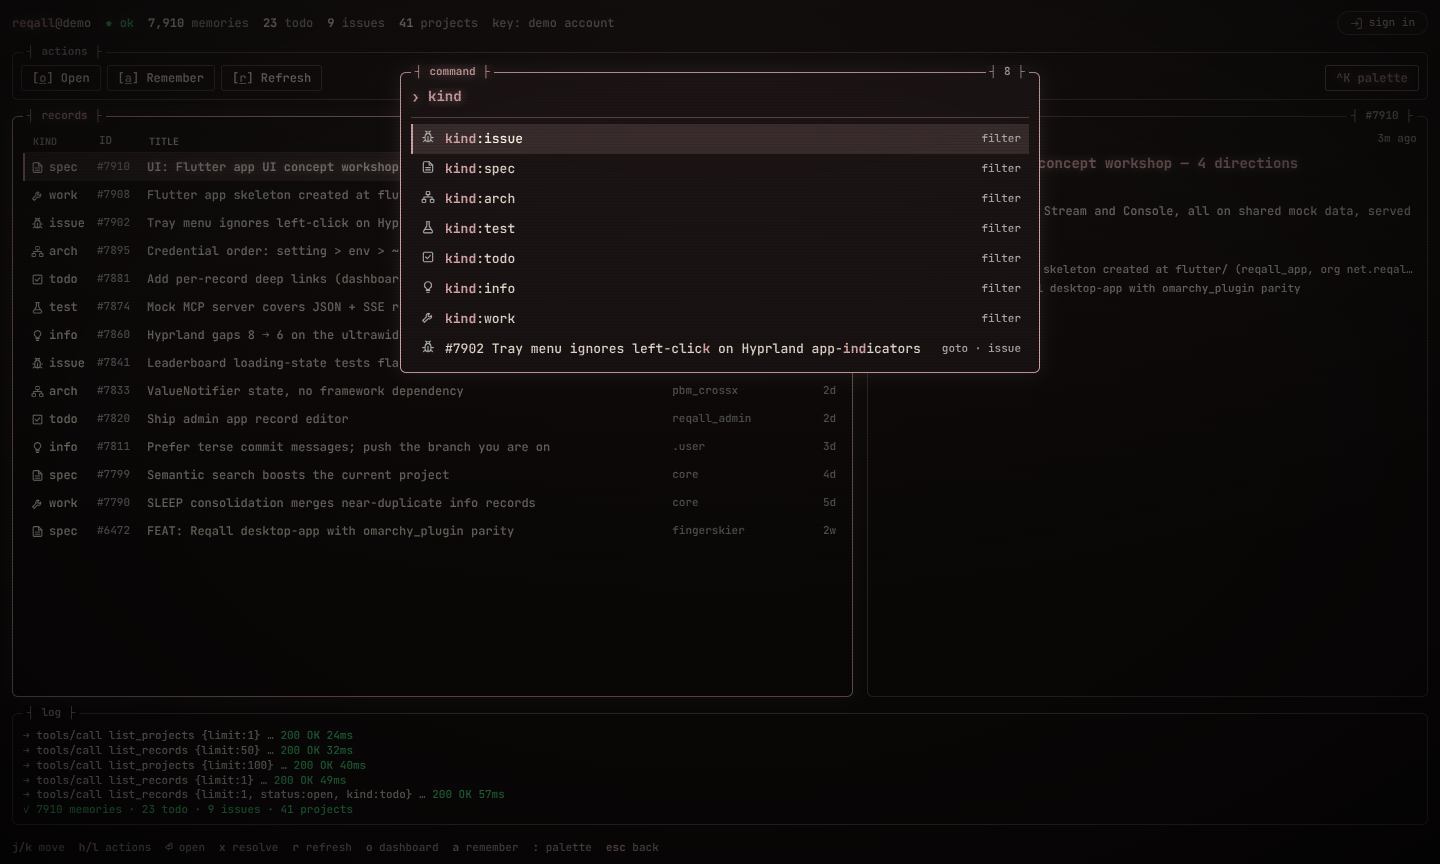
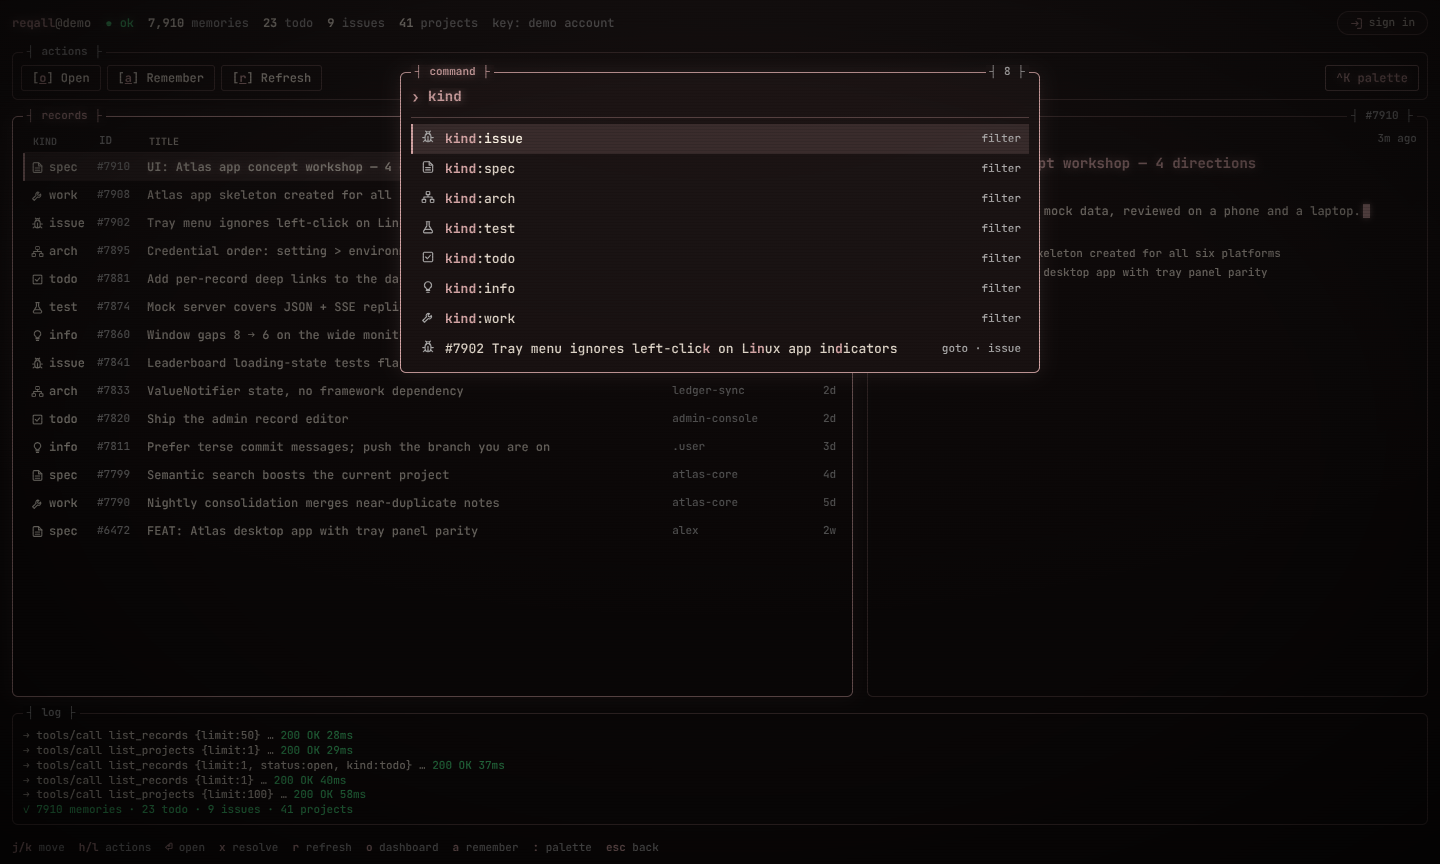
Use fictional names in all mock, demo and test data
The demo accounts, design mocks and test fixtures were seeded from real
Reqall records, so they named real orgs, client projects, a user handle
and an email. Replace them with an invented set (lumen-labs/atlas-*,
quarry-co/harvest-app, tidewater/ledger-sync, alex@example.com) shared
by designs/, flutter/ and electron/, and regenerate the screenshots.

diff --git a/designs/lib/shared/mock.dart b/designs/lib/shared/mock.dart
@@ -62,7 +62,7 @@ class Account {
 const account = Account(
   auth: AuthState.ok,
   host: 'reqall.net',
-  email: 'fingerskier@gmail.com',
+  email: 'alex@example.com',
   memories: 7910,
   openTodos: 23,
   openIssues: 9,
@@ -71,91 +71,91 @@ const account = Account(
 );
 
 const projects = <Project>[
-  Project(8557, 'ReqallSystem/app', 3),
-  Project(4946, '.machine/omarchy/fingerskier', 212),
-  Project(84, 'fingerskier/reqall_admin', 48),
-  Project(17, 'osteostrong/believer_app', 391),
-  Project(144, 'turingautomations/pbm_crossx', 77),
-  Project(12, 'ReqallSystem/core', 640),
-  Project(31, 'ReqallSystem/desktop-app', 58),
+  Project(8557, 'lumen-labs/atlas-app', 3),
+  Project(4946, '.machine/devbox/alex', 212),
+  Project(84, 'alex/admin-console', 48),
+  Project(17, 'quarry-co/harvest-app', 391),
+  Project(144, 'tidewater/ledger-sync', 77),
+  Project(12, 'lumen-labs/atlas-core', 640),
+  Project(31, 'lumen-labs/atlas-desktop', 58),
   Project(2, '.user', 96),
 ];
 
 const memories = <Memory>[
   Memory(
     id: 7910,
-    title: 'UI: Flutter app UI concept workshop — 4 directions',
-    body: 'Hearth, Constellation, Stream and Console, all on shared mock data, served over tailscale.',
+    title: 'UI: Atlas app concept workshop — 4 directions',
+    body: 'Four layouts on shared mock data, reviewed on a phone and a laptop.',
     kind: Kind.spec,
     status: 'open',
-    project: 'ReqallSystem/app',
+    project: 'lumen-labs/atlas-app',
     age: Duration(minutes: 3),
     links: [7908, 6472],
   ),
   Memory(
     id: 7908,
-    title: 'Flutter app skeleton created at flutter/ (reqall_app, org net.reqall)',
-    body: 'flutter create with android, ios, linux, macos, windows, web. Analyze clean, tests pass.',
+    title: 'Atlas app skeleton created for all six platforms',
+    body: 'Android, iOS, Linux, macOS, Windows and web targets. Analyze clean, tests pass.',
     kind: Kind.work,
     status: 'active',
-    project: 'ReqallSystem/app',
+    project: 'lumen-labs/atlas-app',
     age: Duration(minutes: 34),
     links: [6472],
   ),
   Memory(
     id: 7902,
-    title: 'Tray menu ignores left-click on Hyprland app-indicators',
-    body: 'Linux indicators route left-click to the menu; panel open must be a menu item.',
+    title: 'Tray menu ignores left-click on Linux app indicators',
+    body: 'Linux indicators route left-click to the menu; opening the panel must be a menu item.',
     kind: Kind.issue,
     status: 'open',
-    project: 'ReqallSystem/desktop-app',
+    project: 'lumen-labs/atlas-desktop',
     age: Duration(hours: 2, minutes: 10),
     links: [6472],
   ),
   Memory(
     id: 7895,
-    title: 'Credential order: setting > env > ~/.config/reqall/env > config.json',
-    body: 'Parsed, never sourced. Shared by the plugin, desktop app and CLI.',
+    title: 'Credential order: setting > environment > env file > config file',
+    body: 'Parsed, never sourced. Shared by every client.',
     kind: Kind.arch,
     status: 'active',
-    project: 'ReqallSystem/core',
+    project: 'lumen-labs/atlas-core',
     age: Duration(hours: 5),
     links: [6472, 7902],
   ),
   Memory(
     id: 7881,
-    title: 'Add per-record deep links (dashboard#records/<id>)',
+    title: 'Add per-record deep links to the dashboard',
     kind: Kind.todo,
     status: 'open',
-    project: 'ReqallSystem/desktop-app',
+    project: 'lumen-labs/atlas-desktop',
     age: Duration(hours: 9),
     links: [6472],
   ),
   Memory(
     id: 7874,
-    title: 'Mock MCP server covers JSON + SSE replies',
+    title: 'Mock server covers JSON + SSE replies',
     body: 'node:test against a local HTTP server; auth states ok/none/invalid/paused/error.',
     kind: Kind.test,
     status: 'active',
-    project: 'ReqallSystem/desktop-app',
+    project: 'lumen-labs/atlas-desktop',
     age: Duration(hours: 20),
     links: [7895],
   ),
   Memory(
     id: 7860,
-    title: 'Hyprland gaps 8 → 6 on the ultrawide',
+    title: 'Window gaps 8 → 6 on the wide monitor',
     kind: Kind.info,
     status: 'active',
-    project: '.machine/omarchy/fingerskier',
+    project: '.machine/devbox/alex',
     age: Duration(days: 1, hours: 3),
   ),
   Memory(
     id: 6472,
-    title: 'FEAT: Reqall desktop-app with omarchy_plugin parity',
+    title: 'FEAT: Atlas desktop app with tray panel parity',
     body: 'Tray, panel, keyboard nav, fetcher, settings, tests.',
     kind: Kind.spec,
     status: 'resolved',
-    project: '.machine/omarchy/fingerskier',
+    project: '.machine/devbox/alex',
     age: Duration(days: 17),
   ),
   Memory(
@@ -163,7 +163,7 @@ const memories = <Memory>[
     title: 'Leaderboard loading-state tests flake on CI',
     kind: Kind.issue,
     status: 'open',
-    project: 'osteostrong/believer_app',
+    project: 'quarry-co/harvest-app',
     age: Duration(days: 1, hours: 9),
   ),
   Memory(
@@ -171,15 +171,15 @@ const memories = <Memory>[
     title: 'ValueNotifier state, no framework dependency',
     kind: Kind.arch,
     status: 'active',
-    project: 'turingautomations/pbm_crossx',
+    project: 'tidewater/ledger-sync',
     age: Duration(days: 2),
   ),
   Memory(
     id: 7820,
-    title: 'Ship admin app record editor',
+    title: 'Ship the admin record editor',
     kind: Kind.todo,
     status: 'open',
-    project: 'fingerskier/reqall_admin',
+    project: 'alex/admin-console',
     age: Duration(days: 2, hours: 6),
   ),
   Memory(
@@ -195,16 +195,16 @@ const memories = <Memory>[
     title: 'Semantic search boosts the current project',
     kind: Kind.spec,
     status: 'active',
-    project: 'ReqallSystem/core',
+    project: 'lumen-labs/atlas-core',
     age: Duration(days: 4),
     links: [7895],
   ),
   Memory(
     id: 7790,
-    title: 'SLEEP consolidation merges near-duplicate info records',
+    title: 'Nightly consolidation merges near-duplicate notes',
     kind: Kind.work,
     status: 'active',
-    project: 'ReqallSystem/core',
+    project: 'lumen-labs/atlas-core',
     age: Duration(days: 5),
     links: [7799],
   ),
@@ -218,5 +218,5 @@ String relativeAge(Duration age) {
   return '${age.inDays ~/ 7}w';
 }
 
-/// "ReqallSystem/desktop-app" → "desktop-app"; dotted machine/user projects keep their tail.
+/// "lumen-labs/atlas-desktop" → "atlas-desktop"; dotted machine/user projects keep their tail.
 String shortProject(String name) => name.split('/').last;

diff --git a/flutter/lib/api/demo_repository.dart b/flutter/lib/api/demo_repository.dart
@@ -21,13 +21,13 @@ class DemoRepository implements ReqallRepository {
   };
 
   static const _projects = <Project>[
-    Project(8557, 'ReqallSystem/app', 3),
-    Project(4946, '.machine/omarchy/fingerskier', 212),
-    Project(84, 'fingerskier/reqall_admin', 48),
-    Project(17, 'osteostrong/believer_app', 391),
-    Project(144, 'turingautomations/pbm_crossx', 77),
-    Project(12, 'ReqallSystem/core', 640),
-    Project(31, 'ReqallSystem/desktop-app', 58),
+    Project(8557, 'lumen-labs/atlas-app', 3),
+    Project(4946, '.machine/devbox/alex', 212),
+    Project(84, 'alex/admin-console', 48),
+    Project(17, 'quarry-co/harvest-app', 391),
+    Project(144, 'tidewater/ledger-sync', 77),
+    Project(12, 'lumen-labs/atlas-core', 640),
+    Project(31, 'lumen-labs/atlas-desktop', 58),
     Project(2, '.user', 96),
   ];
 
@@ -100,30 +100,30 @@ class DemoRepository implements ReqallRepository {
     Memory m(int id, String title, Kind kind, String status, String project, Duration age, [String body = '']) =>
         Memory(id: id, title: title, body: body, kind: kind, status: status, project: project, updatedAt: now.subtract(age));
     return [
-      m(7910, 'UI: Flutter app UI concept workshop — 4 directions', Kind.spec, 'open', 'ReqallSystem/app',
-          const Duration(minutes: 3), 'Hearth, Constellation, Stream and Console, all on shared mock data, served over tailscale.'),
-      m(7908, 'Flutter app skeleton created at flutter/ (reqall_app, org net.reqall)', Kind.work, 'active', 'ReqallSystem/app',
-          const Duration(minutes: 34), 'flutter create with android, ios, linux, macos, windows, web. Analyze clean, tests pass.'),
-      m(7902, 'Tray menu ignores left-click on Hyprland app-indicators', Kind.issue, 'open', 'ReqallSystem/desktop-app',
-          const Duration(hours: 2, minutes: 10), 'Linux indicators route left-click to the menu; panel open must be a menu item.'),
-      m(7895, 'Credential order: setting > env > ~/.config/reqall/env > config.json', Kind.arch, 'active', 'ReqallSystem/core',
-          const Duration(hours: 5), 'Parsed, never sourced. Shared by the plugin, desktop app and CLI.'),
-      m(7881, 'Add per-record deep links (dashboard#records/<id>)', Kind.todo, 'open', 'ReqallSystem/desktop-app',
+      m(7910, 'UI: Atlas app concept workshop — 4 directions', Kind.spec, 'open', 'lumen-labs/atlas-app',
+          const Duration(minutes: 3), 'Four layouts on shared mock data, reviewed on a phone and a laptop.'),
+      m(7908, 'Atlas app skeleton created for all six platforms', Kind.work, 'active', 'lumen-labs/atlas-app',
+          const Duration(minutes: 34), 'Android, iOS, Linux, macOS, Windows and web targets. Analyze clean, tests pass.'),
+      m(7902, 'Tray menu ignores left-click on Linux app indicators', Kind.issue, 'open', 'lumen-labs/atlas-desktop',
+          const Duration(hours: 2, minutes: 10), 'Linux indicators route left-click to the menu; opening the panel must be a menu item.'),
+      m(7895, 'Credential order: setting > environment > env file > config file', Kind.arch, 'active', 'lumen-labs/atlas-core',
+          const Duration(hours: 5), 'Parsed, never sourced. Shared by every client.'),
+      m(7881, 'Add per-record deep links to the dashboard', Kind.todo, 'open', 'lumen-labs/atlas-desktop',
           const Duration(hours: 9)),
-      m(7874, 'Mock MCP server covers JSON + SSE replies', Kind.test, 'active', 'ReqallSystem/desktop-app',
+      m(7874, 'Mock server covers JSON + SSE replies', Kind.test, 'active', 'lumen-labs/atlas-desktop',
           const Duration(hours: 20), 'node:test against a local HTTP server; auth states ok/none/invalid/paused/error.'),
-      m(7860, 'Hyprland gaps 8 → 6 on the ultrawide', Kind.info, 'active', '.machine/omarchy/fingerskier',
+      m(7860, 'Window gaps 8 → 6 on the wide monitor', Kind.info, 'active', '.machine/devbox/alex',
           const Duration(days: 1, hours: 3)),
-      m(7841, 'Leaderboard loading-state tests flake on CI', Kind.issue, 'open', 'osteostrong/believer_app',
+      m(7841, 'Leaderboard loading-state tests flake on CI', Kind.issue, 'open', 'quarry-co/harvest-app',
           const Duration(days: 1, hours: 9)),
-      m(7833, 'ValueNotifier state, no framework dependency', Kind.arch, 'active', 'turingautomations/pbm_crossx',
+      m(7833, 'ValueNotifier state, no framework dependency', Kind.arch, 'active', 'tidewater/ledger-sync',
           const Duration(days: 2)),
-      m(7820, 'Ship admin app record editor', Kind.todo, 'open', 'fingerskier/reqall_admin', const Duration(days: 2, hours: 6)),
+      m(7820, 'Ship the admin record editor', Kind.todo, 'open', 'alex/admin-console', const Duration(days: 2, hours: 6)),
       m(7811, 'Prefer terse commit messages; push the branch you are on', Kind.info, 'active', '.user', const Duration(days: 3)),
-      m(7799, 'Semantic search boosts the current project', Kind.spec, 'active', 'ReqallSystem/core', const Duration(days: 4)),
-      m(7790, 'SLEEP consolidation merges near-duplicate info records', Kind.work, 'active', 'ReqallSystem/core',
+      m(7799, 'Semantic search boosts the current project', Kind.spec, 'active', 'lumen-labs/atlas-core', const Duration(days: 4)),
+      m(7790, 'Nightly consolidation merges near-duplicate notes', Kind.work, 'active', 'lumen-labs/atlas-core',
           const Duration(days: 5)),
-      m(6472, 'FEAT: Reqall desktop-app with omarchy_plugin parity', Kind.spec, 'resolved', '.machine/omarchy/fingerskier',
+      m(6472, 'FEAT: Atlas desktop app with tray panel parity', Kind.spec, 'resolved', '.machine/devbox/alex',
           const Duration(days: 17), 'Tray, panel, keyboard nav, fetcher, settings, tests.'),
     ];
   }

diff --git a/electron/src/main/demo.js b/electron/src/main/demo.js
@@ -7,13 +7,13 @@ const HOUR = 60 * MIN
 const DAY = 24 * HOUR
 
 const PROJECTS = [
-  { id: 8557, name: 'ReqallSystem/app', count: 3 },
-  { id: 4946, name: '.machine/omarchy/fingerskier', count: 212 },
-  { id: 84, name: 'fingerskier/reqall_admin', count: 48 },
-  { id: 17, name: 'osteostrong/believer_app', count: 391 },
-  { id: 144, name: 'turingautomations/pbm_crossx', count: 77 },
-  { id: 12, name: 'ReqallSystem/core', count: 640 },
-  { id: 31, name: 'ReqallSystem/desktop-app', count: 58 },
+  { id: 8557, name: 'lumen-labs/atlas-app', count: 3 },
+  { id: 4946, name: '.machine/devbox/alex', count: 212 },
+  { id: 84, name: 'alex/admin-console', count: 48 },
+  { id: 17, name: 'quarry-co/harvest-app', count: 391 },
+  { id: 144, name: 'tidewater/ledger-sync', count: 77 },
+  { id: 12, name: 'lumen-labs/atlas-core', count: 640 },
+  { id: 31, name: 'lumen-labs/atlas-desktop', count: 58 },
   { id: 2, name: '.user', count: 96 }
 ]
 
@@ -33,25 +33,25 @@ function seed(now) {
   const m = (id, title, kind, status, project, age, body = '') =>
     ({ id, title, body, kind, status, project, projectId: projectId(project), updatedAt: now - age })
   return [
-    m(7910, 'UI: Flutter app UI concept workshop — 4 directions', 'spec', 'open', 'ReqallSystem/app', 3 * MIN,
-      'Hearth, Constellation, Stream and Console, all on shared mock data, served over tailscale.'),
-    m(7908, 'Flutter app skeleton created at flutter/ (reqall_app, org net.reqall)', 'work', 'active', 'ReqallSystem/app', 34 * MIN,
-      'flutter create with android, ios, linux, macos, windows, web. Analyze clean, tests pass.'),
-    m(7902, 'Tray menu ignores left-click on Hyprland app-indicators', 'issue', 'open', 'ReqallSystem/desktop-app', 2 * HOUR + 10 * MIN,
-      'Linux indicators route left-click to the menu; panel open must be a menu item.'),
-    m(7895, 'Credential order: setting > env > ~/.config/reqall/env > config.json', 'arch', 'active', 'ReqallSystem/core', 5 * HOUR,
-      'Parsed, never sourced. Shared by the plugin, desktop app and CLI.'),
-    m(7881, 'Add per-record deep links (dashboard#records/<id>)', 'todo', 'open', 'ReqallSystem/desktop-app', 9 * HOUR),
-    m(7874, 'Mock MCP server covers JSON + SSE replies', 'test', 'active', 'ReqallSystem/desktop-app', 20 * HOUR,
+    m(7910, 'UI: Atlas app concept workshop — 4 directions', 'spec', 'open', 'lumen-labs/atlas-app', 3 * MIN,
+      'Four layouts on shared mock data, reviewed on a phone and a laptop.'),
+    m(7908, 'Atlas app skeleton created for all six platforms', 'work', 'active', 'lumen-labs/atlas-app', 34 * MIN,
+      'Android, iOS, Linux, macOS, Windows and web targets. Analyze clean, tests pass.'),
+    m(7902, 'Tray menu ignores left-click on Linux app indicators', 'issue', 'open', 'lumen-labs/atlas-desktop', 2 * HOUR + 10 * MIN,
+      'Linux indicators route left-click to the menu; opening the panel must be a menu item.'),
+    m(7895, 'Credential order: setting > environment > env file > config file', 'arch', 'active', 'lumen-labs/atlas-core', 5 * HOUR,
+      'Parsed, never sourced. Shared by every client.'),
+    m(7881, 'Add per-record deep links to the dashboard', 'todo', 'open', 'lumen-labs/atlas-desktop', 9 * HOUR),
+    m(7874, 'Mock server covers JSON + SSE replies', 'test', 'active', 'lumen-labs/atlas-desktop', 20 * HOUR,
       'node:test against a local HTTP server; auth states ok/none/invalid/paused/error.'),
-    m(7860, 'Hyprland gaps 8 → 6 on the ultrawide', 'info', 'active', '.machine/omarchy/fingerskier', DAY + 3 * HOUR),
-    m(7841, 'Leaderboard loading-state tests flake on CI', 'issue', 'open', 'osteostrong/believer_app', DAY + 9 * HOUR),
-    m(7833, 'ValueNotifier state, no framework dependency', 'arch', 'active', 'turingautomations/pbm_crossx', 2 * DAY),
-    m(7820, 'Ship admin app record editor', 'todo', 'open', 'fingerskier/reqall_admin', 2 * DAY + 6 * HOUR),
+    m(7860, 'Window gaps 8 → 6 on the wide monitor', 'info', 'active', '.machine/devbox/alex', DAY + 3 * HOUR),
+    m(7841, 'Leaderboard loading-state tests flake on CI', 'issue', 'open', 'quarry-co/harvest-app', DAY + 9 * HOUR),
+    m(7833, 'ValueNotifier state, no framework dependency', 'arch', 'active', 'tidewater/ledger-sync', 2 * DAY),
+    m(7820, 'Ship the admin record editor', 'todo', 'open', 'alex/admin-console', 2 * DAY + 6 * HOUR),
     m(7811, 'Prefer terse commit messages; push the branch you are on', 'info', 'active', '.user', 3 * DAY),
-    m(7799, 'Semantic search boosts the current project', 'spec', 'active', 'ReqallSystem/core', 4 * DAY),
-    m(7790, 'SLEEP consolidation merges near-duplicate info records', 'work', 'active', 'ReqallSystem/core', 5 * DAY),
-    m(6472, 'FEAT: Reqall desktop-app with omarchy_plugin parity', 'spec', 'resolved', '.machine/omarchy/fingerskier', 17 * DAY,
+    m(7799, 'Semantic search boosts the current project', 'spec', 'active', 'lumen-labs/atlas-core', 4 * DAY),
+    m(7790, 'Nightly consolidation merges near-duplicate notes', 'work', 'active', 'lumen-labs/atlas-core', 5 * DAY),
+    m(6472, 'FEAT: Atlas desktop app with tray panel parity', 'spec', 'resolved', '.machine/devbox/alex', 17 * DAY,
       'Tray, panel, keyboard nav, fetcher, settings, tests.')
   ]
 }

diff --git a/electron/test/fake-mcp.js b/electron/test/fake-mcp.js
@@ -20,14 +20,14 @@ export async function startFakeMcp({ validTokens = ['good-key'], sse = false } =
     records: Array.from({ length: 60 }, (_, i) => ({
       id: 1000 - i,
       project_id: i % 2 === 0 ? 1 : 2,
-      project_name: i % 2 === 0 ? 'ReqallSystem/app' : '.user',
+      project_name: i % 2 === 0 ? 'lumen-labs/atlas-app' : '.user',
       kind: ['spec', 'issue', 'todo', 'info'][i % 4],
       title: `Record ${1000 - i}`,
       status: i % 4 === 1 || i % 4 === 2 ? 'open' : 'active',
       updated_at: new Date(Date.UTC(2026, 9, 5, 12) - i * 3600_000).toISOString()
     })),
     projects: [
-      { id: 1, name: 'ReqallSystem/app', record_count: 30 },
+      { id: 1, name: 'lumen-labs/atlas-app', record_count: 30 },
       { id: 2, name: '.user', record_count: 30 }
     ],
     links: [{ source_table: 'records', source_id: 1000, target_table: 'records', target_id: 999, relationship: 'implements' }]

diff --git a/electron/test/mcp.test.js b/electron/test/mcp.test.js
@@ -64,7 +64,7 @@ test('repository: summary, filtered records, projects, detail with links', async
   assert.equal(page.total, 15)
   assert.ok(page.records.every((m) => m.kind === 'issue' && m.projectId === 2 && m.project === '.user'))
   assert.equal(typeof page.records[0].updatedAt, 'number')
-  assert.deepEqual((await repo.projects()).map((p) => p.name), ['ReqallSystem/app', '.user'])
+  assert.deepEqual((await repo.projects()).map((p) => p.name), ['lumen-labs/atlas-app', '.user'])
   const d = await repo.detail(1000)
   assert.equal(d.memory.body, 'Body of 1000')
   assert.deepEqual(d.links, [{ otherId: 999, relationship: 'implements', outgoing: true }])

diff --git a/flutter/test/support/fake_mcp.dart b/flutter/test/support/fake_mcp.dart
@@ -27,7 +27,7 @@ class FakeMcp {
       {
         'id': 1000 - i,
         'project_id': i.isEven ? 1 : 2,
-        'project_name': i.isEven ? 'ReqallSystem/app' : '.user',
+        'project_name': i.isEven ? 'lumen-labs/atlas-app' : '.user',
         'kind': ['spec', 'issue', 'todo', 'info'][i % 4],
         'title': 'Record ${1000 - i}',
         'status': i % 4 == 1 || i % 4 == 2 ? 'open' : 'active',
@@ -36,7 +36,7 @@ class FakeMcp {
   ];
 
   final projects = [
-    {'id': 1, 'name': 'ReqallSystem/app', 'record_count': 30},
+    {'id': 1, 'name': 'lumen-labs/atlas-app', 'record_count': 30},
     {'id': 2, 'name': '.user', 'record_count': 30},
   ];
 

diff --git a/electron/test/model.test.js b/electron/test/model.test.js
@@ -31,7 +31,7 @@ test('records normalise from tool output', () => {
   const m = toMemory({ id: '7', title: 't', kind: 'bogus', project_name: 'a/b', project_id: 3, updated_at: '2026-10-05T12:00:00Z' })
   assert.deepEqual(m, { id: 7, title: 't', body: null, kind: 'work', status: 'open', project: 'a/b', projectId: 3, updatedAt: Date.UTC(2026, 9, 5, 12) })
   assert.equal(kindFromName('issue'), 'issue')
-  assert.equal(shortProject('ReqallSystem/desktop-app'), 'desktop-app')
+  assert.equal(shortProject('lumen-labs/atlas-desktop'), 'atlas-desktop')
   assert.equal(shortProject('.user'), '.user')
 })
 

diff --git a/flutter/test/widget_test.dart b/flutter/test/widget_test.dart
@@ -47,7 +47,7 @@ void main() {
       await tester.tap(find.text('Try the demo'));
       await pumpFor(tester);
       expect(find.byType(StreamScreen), findsOneWidget);
-      expect(find.textContaining('Flutter app skeleton'), findsOneWidget);
+      expect(find.textContaining('Atlas app skeleton'), findsOneWidget);
       expect(tester.takeException(), isNull);
     });
 

diff --git a/electron/src/shared/model.js b/electron/src/shared/model.js
@@ -53,7 +53,7 @@ export function relativeAge(ms) {
   return `${Math.floor(d / 365)}y`
 }
 
-/** "ReqallSystem/desktop-app" → "desktop-app"; dotted machine/user projects keep their tail. */
+/** "lumen-labs/atlas-desktop" → "atlas-desktop"; dotted machine/user projects keep their tail. */
 export function shortProject(name) {
   return String(name).split('/').pop()
 }

diff --git a/flutter/lib/api/models.dart b/flutter/lib/api/models.dart
@@ -126,5 +126,5 @@ String relativeAge(Duration age) {
   return '${age.inDays ~/ 365}y';
 }
 
-/// "ReqallSystem/desktop-app" → "desktop-app"; dotted machine/user projects keep their tail.
+/// "lumen-labs/atlas-desktop" → "atlas-desktop"; dotted machine/user projects keep their tail.
 String shortProject(String name) => name.split('/').last;
